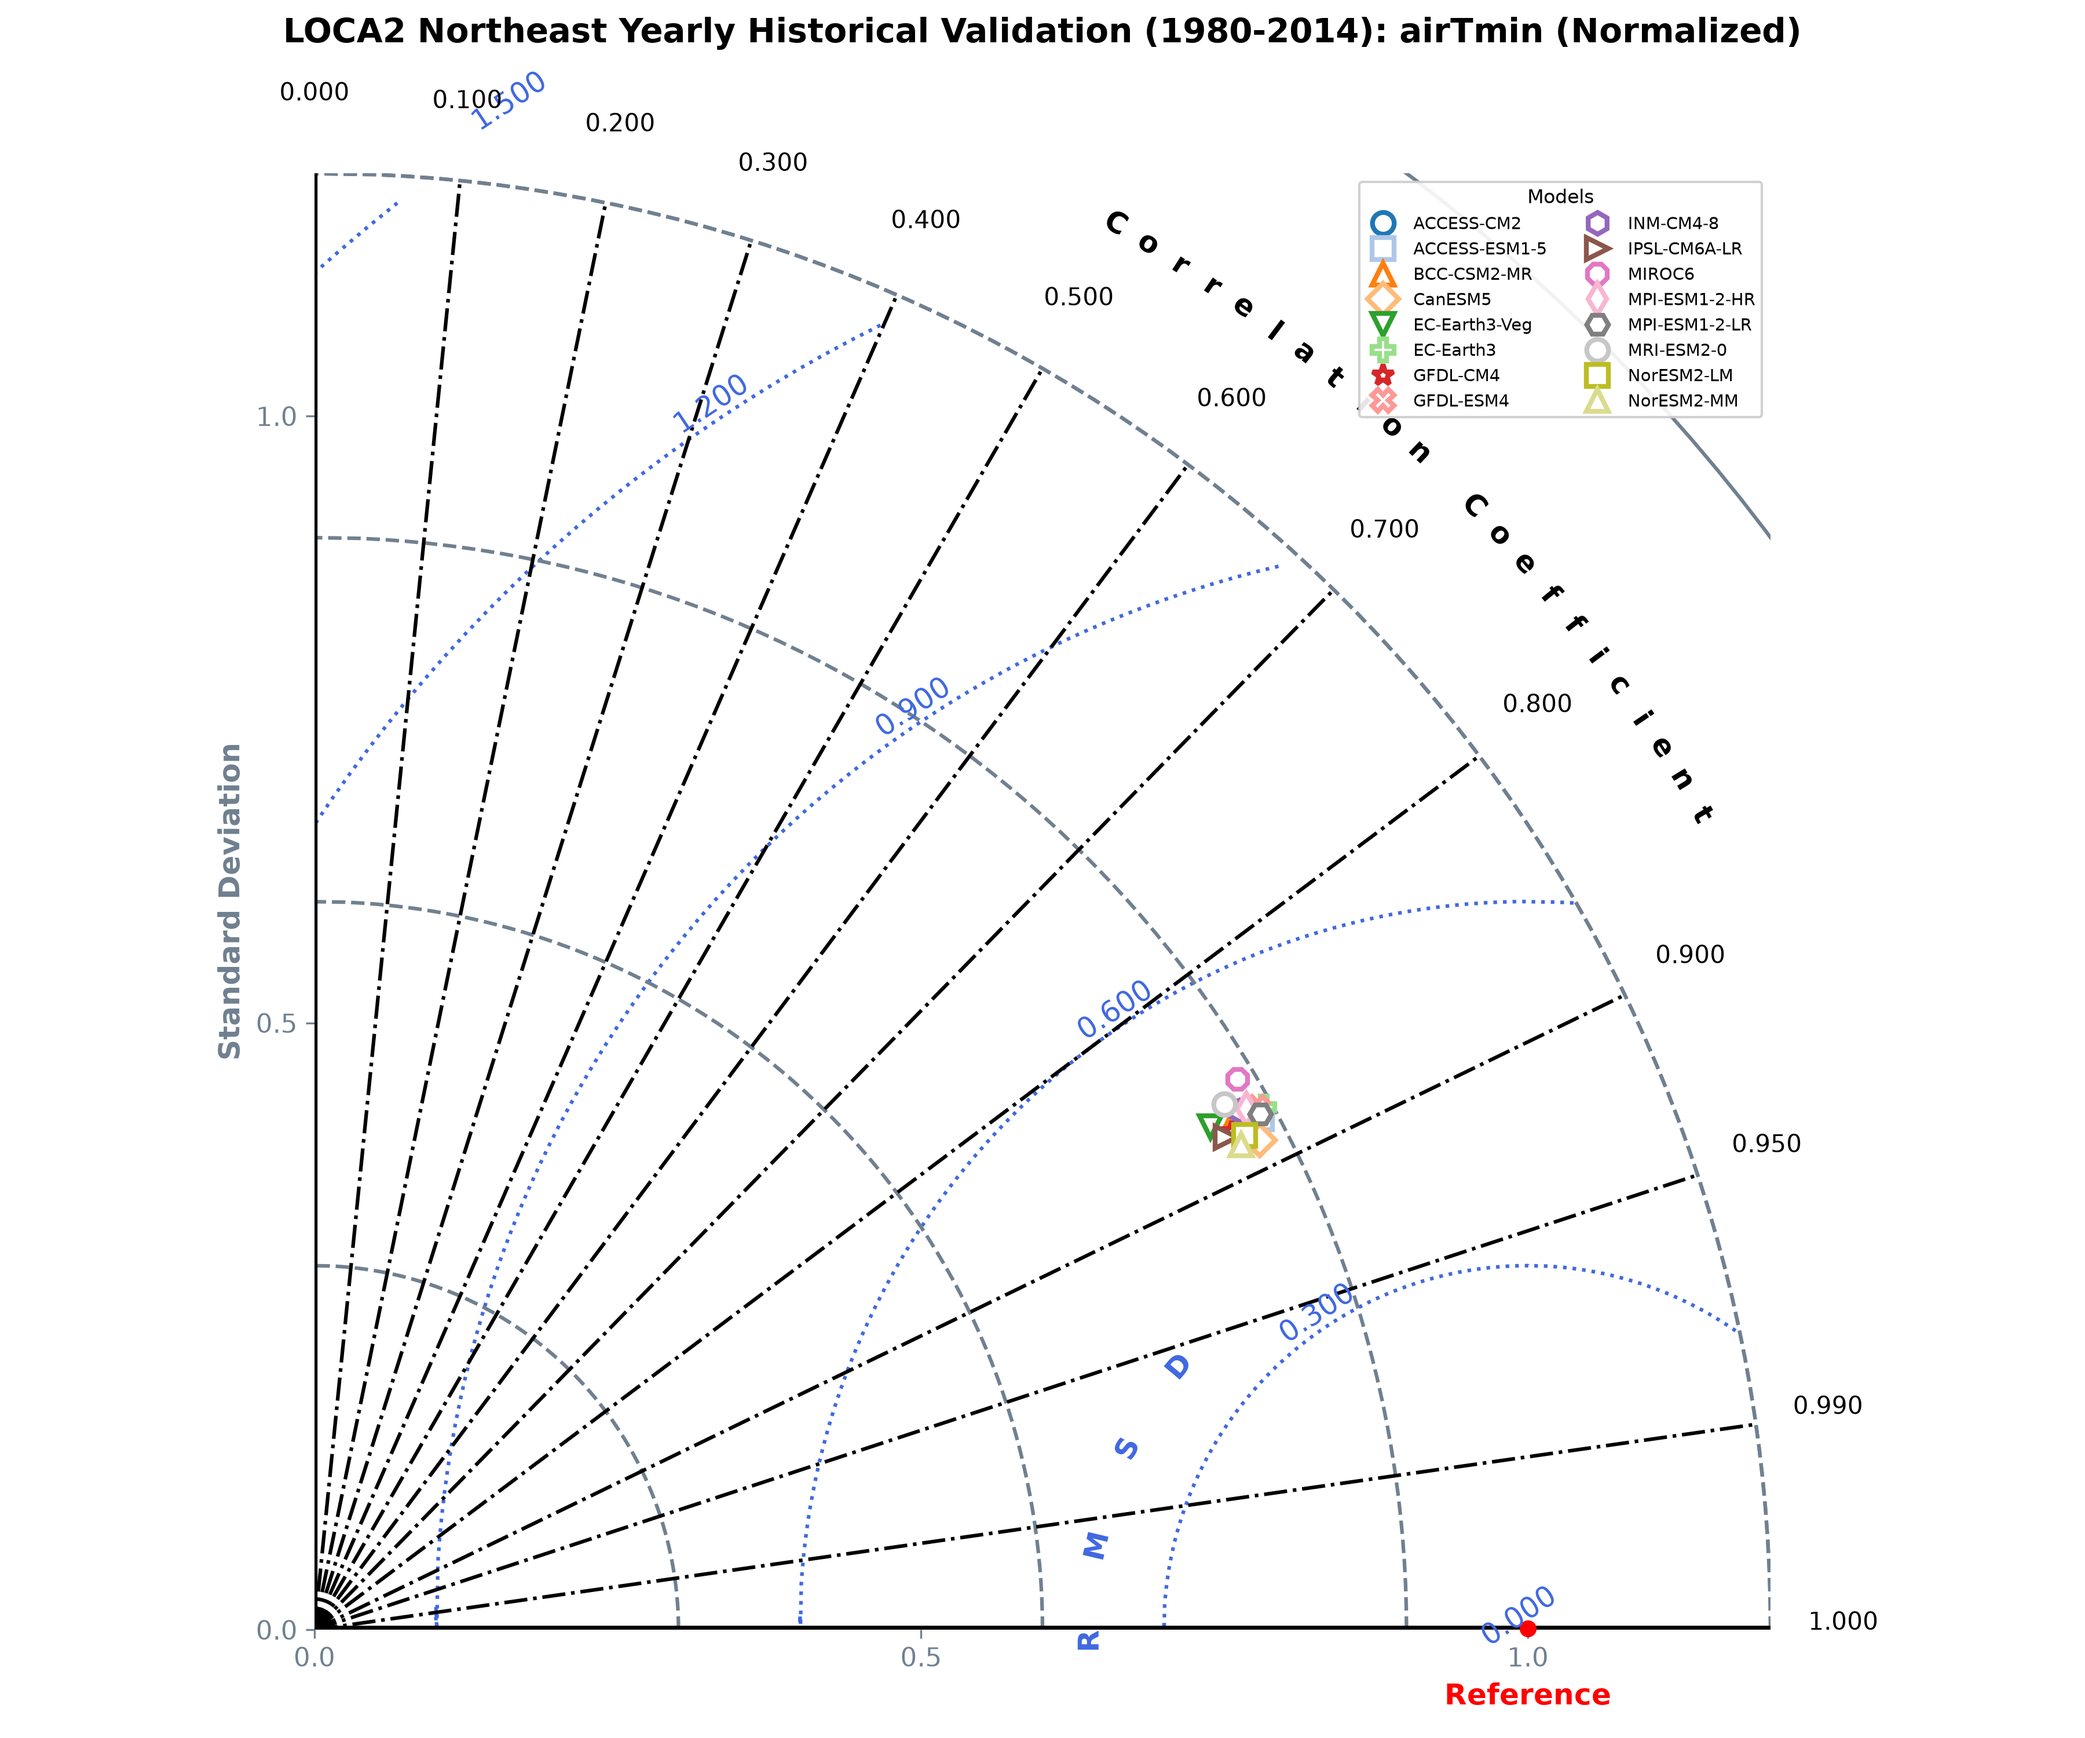
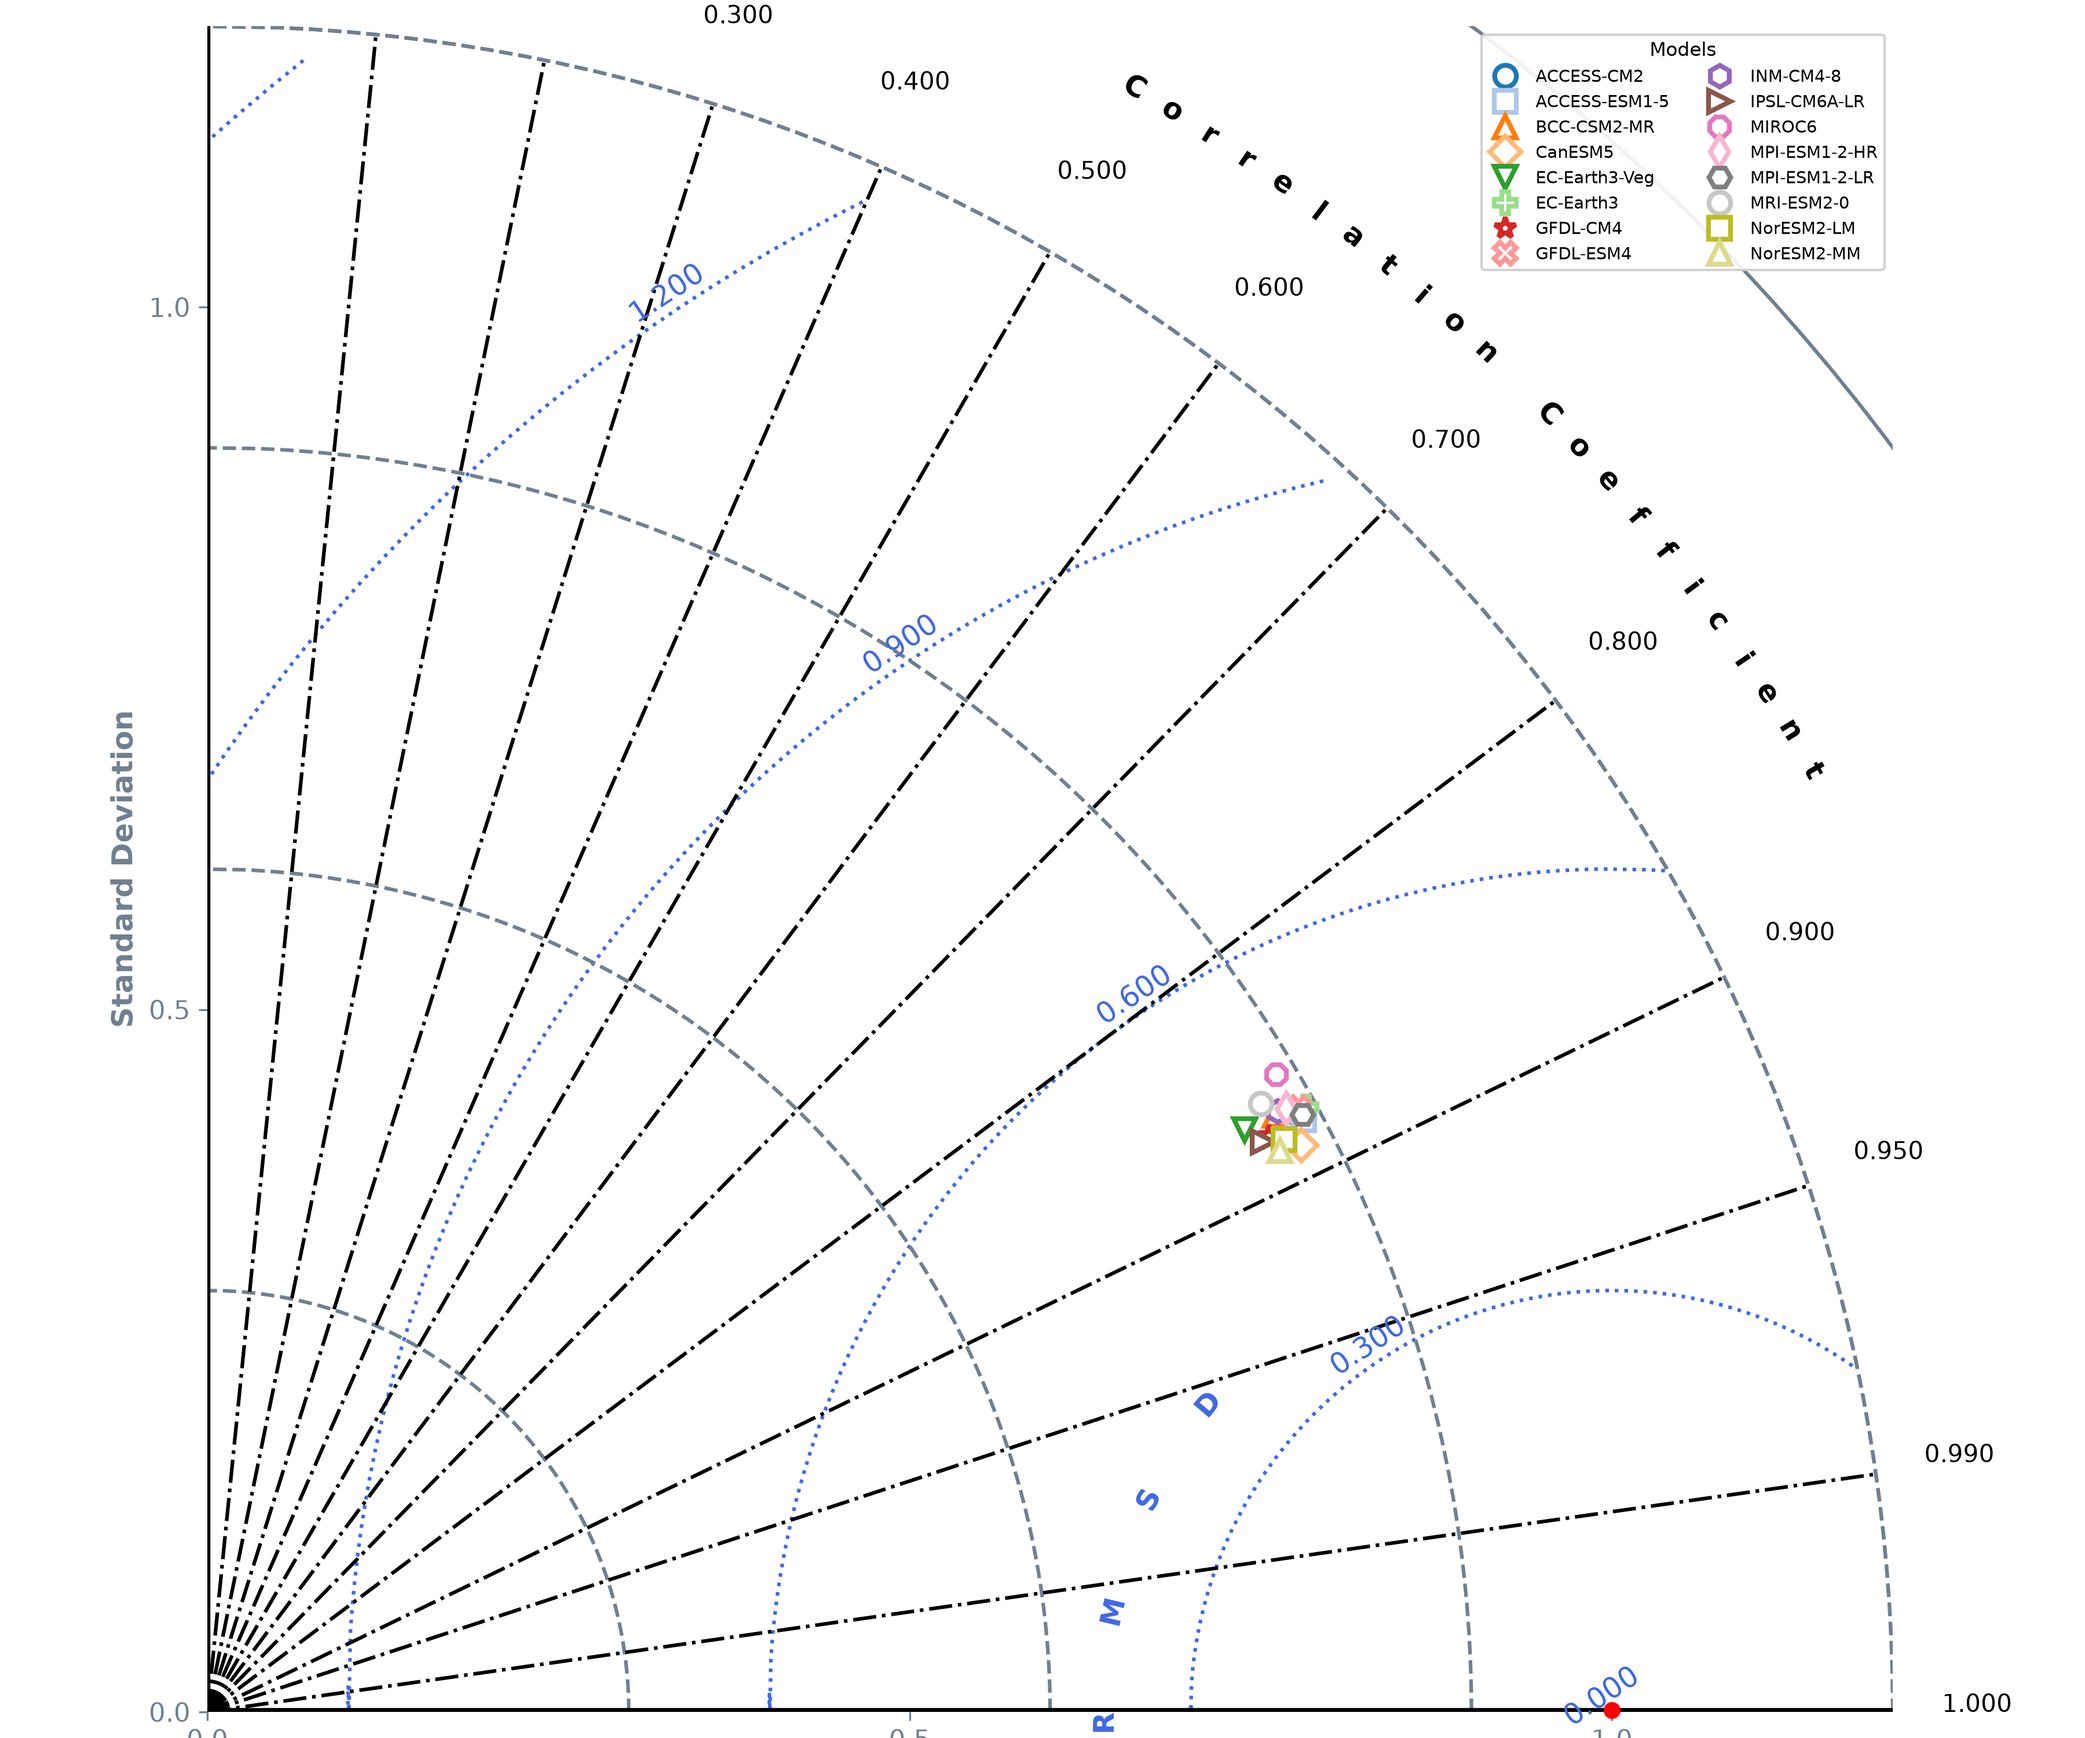
Added combined Taylor diagrams plot for all variables in the northeast

diff --git a/northeast_yearly_taylor_diagrams.py b/northeast_yearly_taylor_diagrams.py
@@ -224,8 +224,52 @@ def aggregate_yearly(da, operation):
         raise ValueError(f"Unknown aggregation operation: {operation}")
 
 
+def draw_taylor_panel(sdevs, crmsds, ccs, active_models, axis_max, std_ticks, rms_ticks,
+                       title, legend_fontsize=7, legend_ncol=2):
+    """Draw one Taylor diagram into whatever the CURRENT matplotlib axes
+    are (skill_metrics.taylor_diagram operates on plt.gca() rather than
+    taking an ax argument) -- call plt.subplot(...) immediately before
+    this to place it in a specific panel. Shared by both the individual
+    per-variable figures and the combined all-variables figure so the two
+    stay visually consistent."""
+    markers_dict = {m: MODEL_STYLE[m] for m in active_models}
+
+    sm.taylor_diagram(sdevs, crmsds, ccs,
+        markerLegend='on',
+        markers=markers_dict,
+        markerObs='o',
+        colObs='red',
+        titleOBS='Reference',
+        axisMax=axis_max,
+        tickSTD=std_ticks,
+        tickRMS=rms_ticks,
+        colCOR='black',
+        colRMS='RoyalBlue',
+        colSTD='SlateGray',
+        styleRMS=':',
+        styleSTD='--')
+
+    ax = plt.gca()
+    clean_numeric_text(ax, decimals=3)
+
+    leg = ax.get_legend()
+    handles = leg.legend_handles
+    labels = [t.get_text() for t in leg.get_texts()]
+    leg.remove()
+    ax.legend(handles, labels, loc='upper right', fontsize=legend_fontsize,
+              ncol=legend_ncol, framealpha=0.9, title='Models', title_fontsize=legend_fontsize + 1)
+
+    ax.set_title(title, fontsize=12, fontweight='bold', pad=20)
+    return ax
+
+
 print(f"Loading Northeast boundary from {SHAPEFILE_PATH}")
 northeast_geom = load_northeast_boundary()
+
+# stashes each variable's finished Taylor-diagram inputs so the combined
+# all-variables figure (built after this loop) can reuse them without
+# redoing any of the data loading/statistics work
+all_var_results = {}
 
 for var, operation in variables_config.items():
     print(f"\n--- Processing variable: {var} (yearly {operation}) ---")
@@ -366,35 +410,17 @@ for var, operation in variables_config.items():
         std_ticks = make_nice_ticks(axis_max, n_ticks=5, decimals=3)
         rms_ticks = make_nice_ticks(axis_max, n_ticks=5, decimals=3)
 
+        # stash everything the combined all-variables figure needs, so it
+        # can redraw this exact panel later without recomputing anything
+        all_var_results[var] = dict(
+            sdevs=sdevs, crmsds=crmsds, ccs=ccs, active_models=list(active_models),
+            axis_max=axis_max, std_ticks=std_ticks, rms_ticks=rms_ticks,
+            best_model=best_model,
+        )
+
         fig = plt.figure(figsize=(12, 10))
-
-        markers_dict = {m: MODEL_STYLE[m] for m in active_models}
-
-        sm.taylor_diagram(sdevs, crmsds, ccs,
-            markerLegend='on',
-            markers=markers_dict,
-            markerObs='o',
-            colObs='red',
-            titleOBS='Reference',
-            axisMax=axis_max,
-            tickSTD=std_ticks,
-            tickRMS=rms_ticks,
-            colCOR='black',
-            colRMS='RoyalBlue',
-            colSTD='SlateGray',
-            styleRMS=':',
-            styleSTD='--')
-
-        ax = plt.gca()
-        clean_numeric_text(ax, decimals=3)
-
-        leg = ax.get_legend()
-        handles = leg.legend_handles
-        labels = [t.get_text() for t in leg.get_texts()]
-        leg.remove()
-        fig.subplots_adjust(right=0.9)
-        ax.legend(handles, labels, loc='upper right', fontsize=7,
-                  ncol=2, framealpha=0.9, title='Models', title_fontsize=8)
+        draw_taylor_panel(sdevs, crmsds, ccs, active_models, axis_max, std_ticks, rms_ticks,
+                           title='', legend_fontsize=7, legend_ncol=2)
 
         plt.title(f'LOCA2 Northeast Yearly Historical Validation (1980-2014): {var} (Normalized)',
                   y=1.08, fontsize=14, fontweight='bold')
@@ -407,3 +433,28 @@ for var, operation in variables_config.items():
         print(f"{best_model} runs closest to observed data")
     else:
         print(f"No models produced valid results for {var}; skipping Taylor diagram.")
+
+if all_var_results:
+    combined_vars = [v for v in variables_config if v in all_var_results]
+    n_panels = len(combined_vars)
+
+    fig = plt.figure(figsize=(7 * n_panels, 8))
+
+    for i, var in enumerate(combined_vars):
+        res = all_var_results[var]
+        plt.subplot(1, n_panels, i + 1)
+        draw_taylor_panel(
+            res['sdevs'], res['crmsds'], res['ccs'], res['active_models'],
+            res['axis_max'], res['std_ticks'], res['rms_ticks'],
+            title=f'{var} (Normalized)', legend_fontsize=5, legend_ncol=2,
+        )
+
+    fig.suptitle('LOCA2 Northeast Yearly Historical Validation (1980-2014): All Variables',
+                 y=1.02, fontsize=16, fontweight='bold')
+    plt.tight_layout()
+    output_plot = os.path.join(OUTPUT_DIR, "northeast_all_variables_yearly_taylor.png")
+    plt.savefig(output_plot, dpi=300, bbox_inches='tight')
+    plt.close()
+    print(f"\nCombined all-variables plot saved to {output_plot}")
+else:
+    print("\nNo variables produced valid results; skipping combined all-variables Taylor diagram.")
